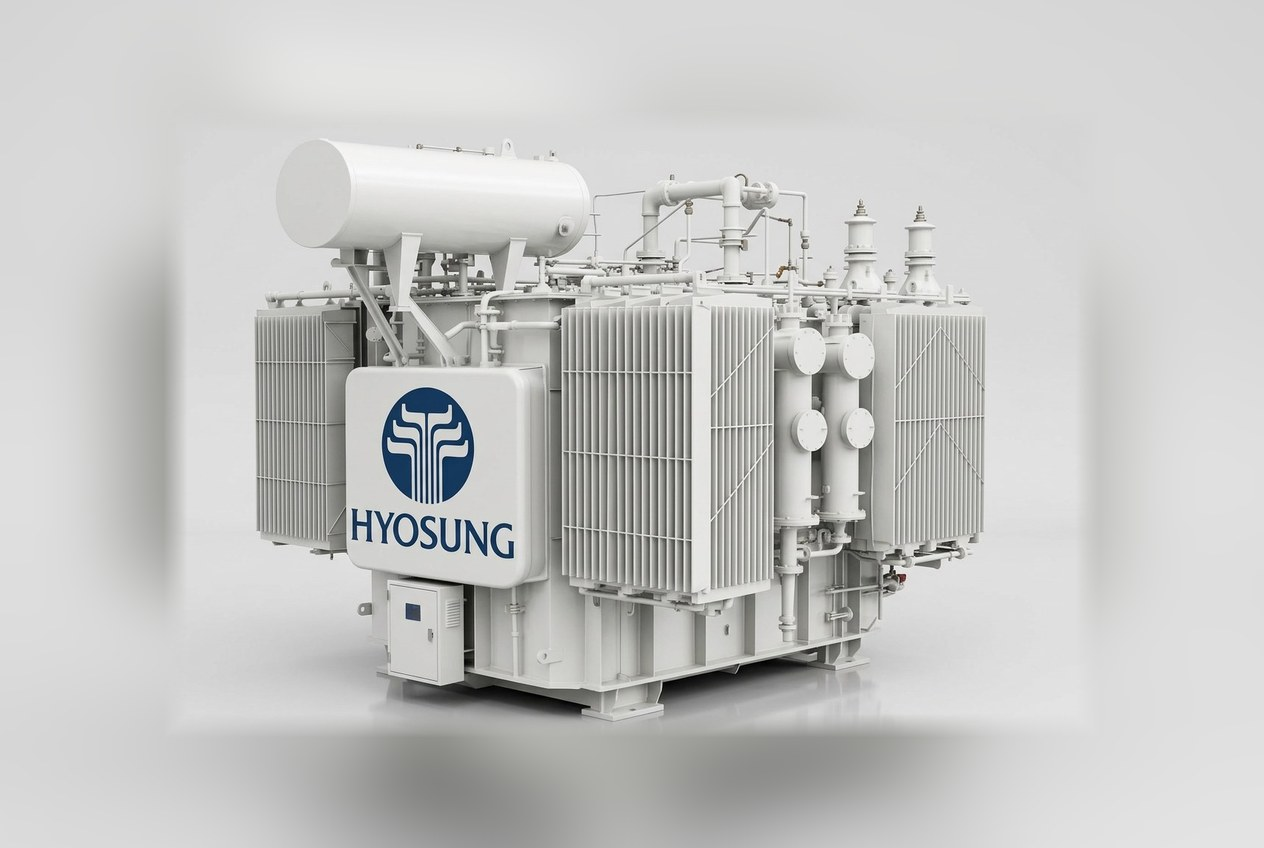
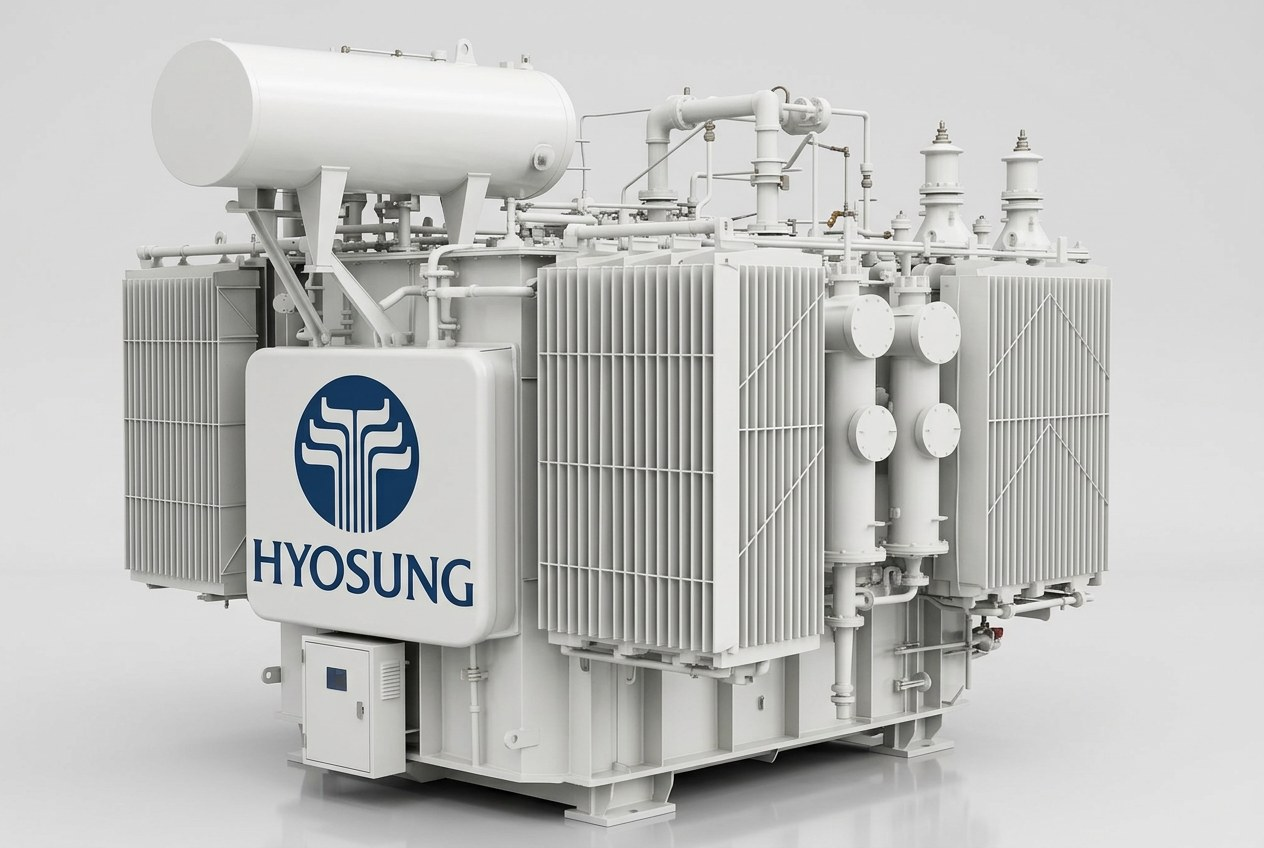
저압전동기·기어박스 스튜디오컷 적용 + 변압기 카드 여백 자연 처리

diff --git a/light/product-lv.html b/light/product-lv.html
@@ -349,7 +349,7 @@ header.scrolled{box-shadow:0 4px 24px rgba(20,27,51,.08)}
     <h2>프리미엄 효율의 친환경 저압전동기</h2>
     <p>혁신적인 철심 설계와 최적화된 권선 설계를 바탕으로 한 프리미엄 효율 저압전동기를 공급합니다. IEC·NEMA 등 국제 규격에 대응하며, 전폐형·플랜지형 등 다양한 형식의 규격별 재고 확인이 가능합니다.</p>
   </div>
-  <div class="p-intro-img"><img src="../img/lv-main.jpg" alt="저압전동기"></div>
+  <div class="p-intro-img"><img src="../img/lv-studio.jpg" alt="저압전동기"></div>
 </div>
 
 <div class="sec-h"><h2>특장점</h2></div>

diff --git a/light/product-gearbox.html b/light/product-gearbox.html
@@ -349,7 +349,7 @@ header.scrolled{box-shadow:0 4px 24px rgba(20,27,51,.08)}
     <h2>현장 조건에 맞춘 기어박스 솔루션</h2>
     <p>최신 설계·해석 기술로 제작된 다양한 기어박스를 공급합니다. 일반 산업기계는 물론 제철, 발전, 시멘트, 고무, 석유·화학 설비까지 — 부하 조건과 설치 환경에 맞는 제품을 선정해 드립니다.</p>
   </div>
-  <div class="p-intro-img"><img src="../img/gb-main.png" alt="기어박스"></div>
+  <div class="p-intro-img"><img src="../img/gb-studio.jpg" alt="기어박스"></div>
 </div>
 
 <div class="sec-h"><h2>특장점</h2></div>

diff --git a/light/index.html b/light/index.html
@@ -261,7 +261,7 @@ footer .copy{margin-top:14px;color:#9AA3B0;font-size:12.5px}
       </a>
       <a class="pcard reveal" href="product-transformer.html">
         <span class="en">Transformer</span>
-        <span class="ph"><img src="../img/tr-studio.jpg" alt="변압기"></span>
+        <span class="ph"><img src="../img/tr-card.jpg" alt="변압기"></span>
         <h3>변압기</h3>
         <p>용량별 변압기 공급 및 교체 상담</p>
         <span class="go">자세히 보기</span>
